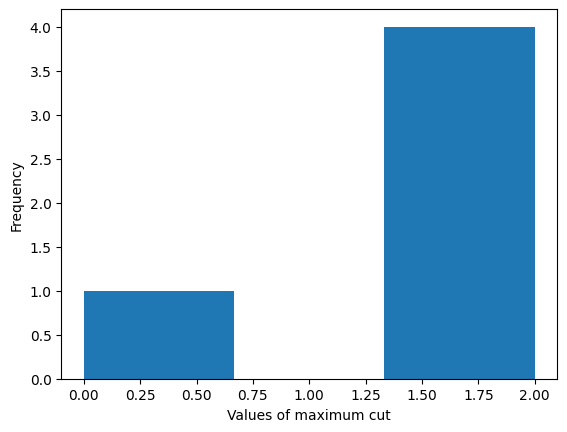
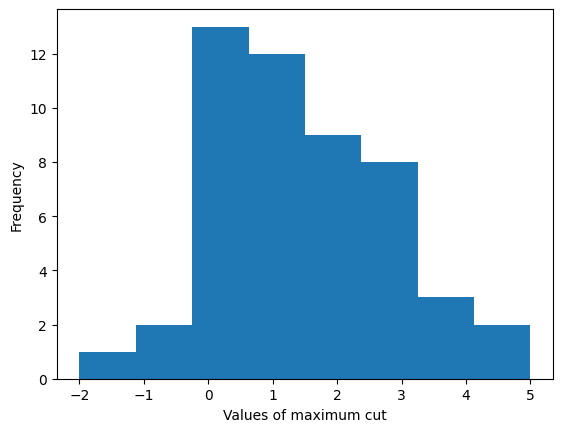
Alix works

diff --git a/maxcut_hist.py b/maxcut_hist.py
@@ -16,7 +16,7 @@ from synthetic_data import compexact_bipartipe_graph
 
 
 ## Run the approximate bipartipe graph and the greedy algorithm a hundred times and save the results 
-M =5 # number of run 
+M = 50 # number of run 
 nsize = 10 #size of the graph
 
 #create vector to save the results in
@@ -52,19 +52,21 @@ for i in range(0,M):
     en_quant_list = []
     for sample, E in response.data(fields=['sample','energy']):
         en_quant_list.append(E)
-    print("engergy list ")
-    print(en_quant_list)
+    # print("engergy list ")
+    # print(en_quant_list)
     max_en = - 1*min(en_quant_list)
-    print("Maximum energy")
-    print(max_en)
+    # print("Maximum energy")
+    # print(max_en)
     quantum_score = np.append(quantum_score,max_en)
 
     ## Compute the difference
     diff = max_en-Sg
-    print("difference between greedy alg and quant annealing")
-    print(diff)
+    # print("difference between greedy alg and quant annealing")
+    # print(diff)
     res_diff = np.append(res_diff,diff)
     
+## Save the data to work with it if necessary later 
+
 
 ## Histograms
 mxres = int(res_diff.max())
@@ -78,21 +80,27 @@ ax1.set_xlabel('Values of maximum cut')
 ax1.set_ylabel('Frequency')
 filename = "maxcut_hist.png"
 fig1.savefig(filename, bbox_inches='tight')
-print("finish")
-print("hist")
-print(hist)
+# print("finish")
+# print("hist")
+# print(hist)
 
 ## Scatter plot 
 ## plot the scatter plot
 fig2, ax2 = plt.subplots()
 #ax1.xlabel('Scatter plot of maximum cut')
-ax2.scatter(x=quantum_score, y = greedy_score)
+maxplot = max(max(quantum_score),max(greedy_score))+3
+## scatter plot needs to be perturbed a bit otherwise, can't see results 
+quantum_scoreplot = quantum_score + np.random.rand(M)/2
+greedy_scoreplot = greedy_score + np.random.rand(M)/2
+ax2.scatter(x=quantum_scoreplot, y = greedy_scoreplot,s=30,marker="x")
+x=np.linspace(0,maxplot,100)
+ax2.plot(x,x,label="y=x")
 ax2.set_ylabel('Greedy algorithm score')
 ax2.set_xlabel('Quantum annealing score')
-ax2.set_xlim([0, max(max(quantum_score),max(greedy_score))+3])
-ax2.set_ylim([0, max(max(quantum_score),max(greedy_score))+3])
+ax2.set_xlim([0, maxplot])
+ax2.set_ylim([0, maxplot])
+ax2.legend()
+ax2.grid()
 filename = "maxcut_scatter.png"
 fig2.savefig(filename, bbox_inches='tight')
-print("finish")
-print("hist")
-print(hist)
+print("done")
